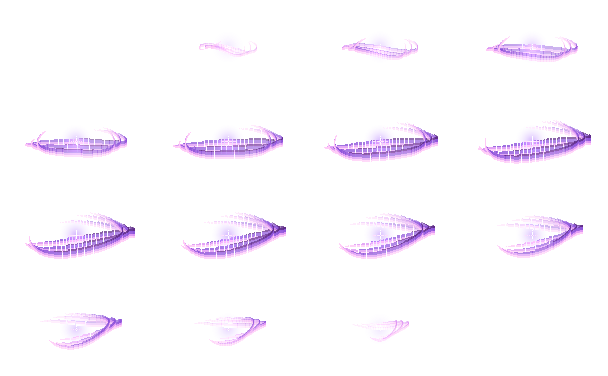
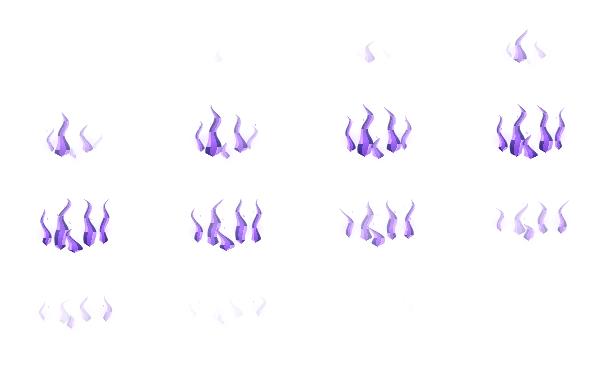
Replace Requiem form shift with rising violet fire

diff --git a/artsource/spritecut/waltz/authoring/review_requiem_true_form.py b/artsource/spritecut/waltz/authoring/review_requiem_true_form.py
@@ -151,10 +151,10 @@ if __name__ == "__main__":
         exit_track = (*baked("exit"), fluid)
         overview([idle_track, exit_track, baked("vanish")])
         switch_preview(exit_track, game_clip(forms, "hand_front_right_enter"),
-                       game_clip(forms, "hand_front_right_idle"), "본모습 → 공통 유체 → 장갑 · ¼배속",
+                       game_clip(forms, "hand_front_right_idle"), "본모습 → 보랏빛 불꽃 → 장갑 · ¼배속",
                        MOTIONS / CLIPS[1] / "v001/previews/to-gauntlet-slow.gif")
     enter_track = (*baked("enter"), fluid)
     previews = MOTIONS / "requiem_true_enter/v001/previews"
     enter_preview(enter_track, previews / "enter-full-speed.gif")
     switch_preview(game_clip(forms, "hand_front_right_exit"), enter_track, idle_track,
-                   "장갑 → 공통 유체 → 본모습 · ¼배속", previews / "from-gauntlet-slow.gif")
+                   "장갑 → 보랏빛 불꽃 → 본모습 · ¼배속", previews / "from-gauntlet-slow.gif")

diff --git a/artsource/spritecut/waltz/motions/requiem_true_idle/v001/README.md b/artsource/spritecut/waltz/motions/requiem_true_idle/v001/README.md
@@ -11,15 +11,18 @@
 | 본모습 등장 | 130ms · 6컷 | [등장 SpriteCut 시트](../../requiem_true_enter/v001/sheets/clips.json) |
 | 소멸 | 640ms · 16컷 | [소멸 SpriteCut 시트](../../requiem_true_vanish/v001/sheets/clips.json) |
 
-영체화에서는 팔을 몸 쪽으로 끌어들이고 꼬리를 감으면서 기존 무기 EXIT와 같은 118ms에 유체가 한 점으로 모인다. [장갑으로 전환하는 ¼배속 영상](../../requiem_true_exit/v001/previews/to-gauntlet-slow.gif)은 이 동작 뒤에 기존 장갑 ENTER를 붙이고 게임의 공통 유체 효과를 가운데에 재생한다. 소멸에서는 팔과 꼬리 가장자리에서 작은 입자가 먼저 떨어지고 눈매가 잠시 남았다가 흐려진다.
+영체화에서는 팔을 몸 쪽으로 끌어들이고 꼬리를 감으면서 기존 무기 EXIT와 같은 118ms에 유체가 한 점으로 모인다. [장갑으로 전환하는 ¼배속 영상](../../requiem_true_exit/v001/previews/to-gauntlet-slow.gif)은 이 동작 뒤에 기존 장갑 ENTER를 붙이고, 게임에서 쓰는 공통 보랏빛 불꽃을 겹쳐 재생한다. 소멸에서는 팔과 꼬리 가장자리에서 작은 입자가 먼저 떨어지고 눈매가 잠시 남았다가 흐려진다.
 
 등장은 공통 유체 중심에서 밝은 주름과 눈매가 먼저 솟고, 양팔과 꼬리가 뒤따라 펼쳐지며 대기 첫 컷과 같은 자세에 안착한다. [등장 실제 속도](../../requiem_true_enter/v001/previews/enter-full-speed.gif) · [장갑에서 본모습으로 전환하는 ¼배속 영상](../../requiem_true_enter/v001/previews/from-gauntlet-slow.gif)
 
 네 시트는 128×128px 정면 셀, 피벗 (64, 119), 같은 컬러·노멀·이미시브 프레임 영역을 쓴다. 전환 유체의 중심은 셀의 (64, 57)에 있다.
 
+[공통 전환 불꽃](../../../../../pixelfx/requiem_forms.mjs)은 밝은 결이 아래에서 위로 올라오고 불씨가 뒤따른다. 기존 16컷과 피벗을 사용하며, PixelFX 0.3.1 공유 리비전 `4ec9a35938d2b0da20cdb19ca72e9de8d6cf4b19`에서 굽는다.
+
 ```powershell
 ../SpriteCut/.venv/Scripts/python.exe artsource/spritecut/waltz/authoring/build_requiem_true_form.py --output-root .local/requiem-front-motion
+node tools/pixelfx/render_requiem_forms.mjs shift
 ../SpriteCut/.venv/Scripts/python.exe artsource/spritecut/waltz/authoring/review_requiem_true_form.py
 ```
 
-첫 명령은 v007의 정면 원화와 v008의 관절을 읽어 SpriteCut으로 다시 굽는다. 두 번째 명령은 제작 폴더의 시트로 검수 GIF를 만든다.
+첫 명령은 v007의 정면 원화와 v008의 관절을 읽어 SpriteCut으로 다시 굽는다. 두 번째 명령은 게임의 전환 불꽃 아틀라스를 갱신한다. 마지막 명령은 제작 폴더의 시트와 전환 불꽃으로 검수 GIF를 만든다.
